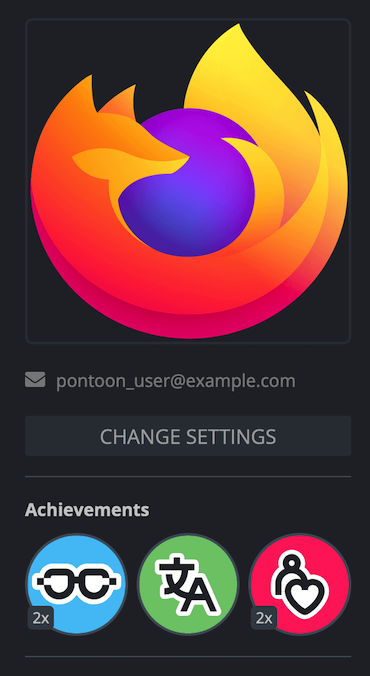
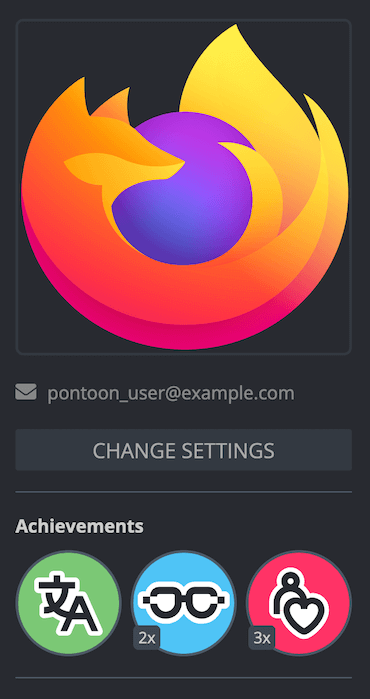
Addressed review comments

diff --git a/src/tools/pontoon/profile.md b/src/tools/pontoon/profile.md
@@ -14,13 +14,13 @@ Users can customize their information and the visibility of specific fields in t
 ## Achievement badges
 
 Achievement badges awarded to a user are displayed beneath their contact information. The available badge types, from left to right in the image below, include:
-* **Review Master**, awarded for reviewing translations.
 * **Translation Champion**, awarded for submitting translations.
+* **Review Master**, awarded for reviewing translations.
 * **Community Builder**, awarded for promoting users to higher roles.
 
 ![Achievement badges](../../assets/images/pontoon/profile/badges.png "Screenshot of all possible achievement badges")
 
-Each badge has three levels. If a user holds a badge at level two or higher, the level is shown at the bottom left of the badge icon.
+Each badge has multiple levels. If a user holds a badge at level two or higher, the level is shown at the bottom left of the badge icon.
 
 ## Activity graphs
 

diff --git a/src/tools/pontoon/notifications.md b/src/tools/pontoon/notifications.md
@@ -58,9 +58,9 @@ This notification is sent once a day to authors of suggestions, to inform them t
 
 This notification is sent to team managers, as soon as a new user makes the first contribution to their team.
 
-### Badge level gained
+### Badge awarded
 
-This notification is sent to a user upon gaining a new [badge level](profile.md#achievement-badges) from reviewing a translation, submitting a translation, or promoting a user.
+This notification is sent to a user upon being awarded with a [badge or badge level](profile.md#achievement-badges) from reviewing and submitting translations, or promoting users.
 
 ### Manual notifications
 
